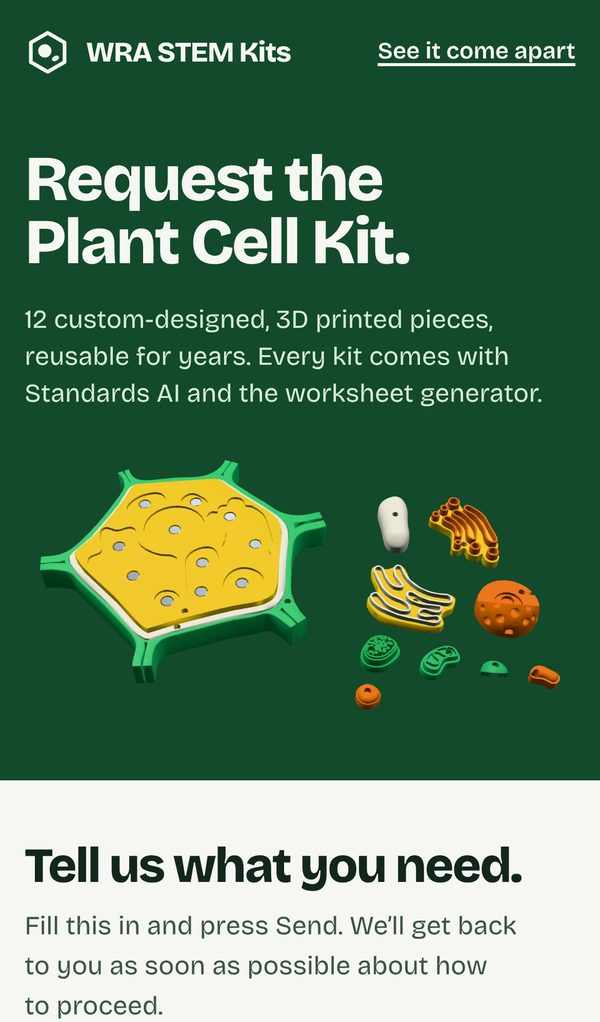
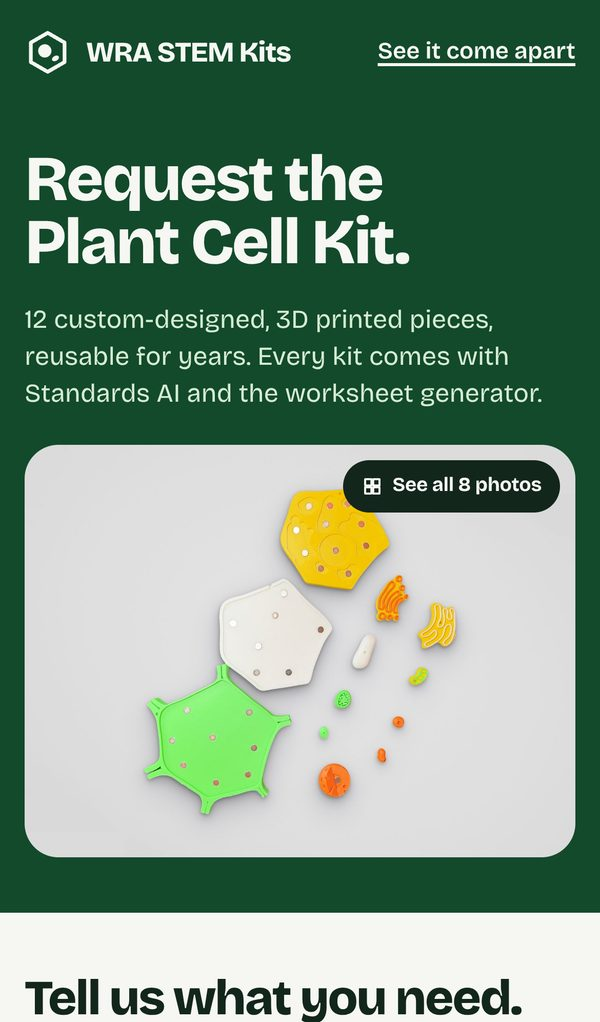
Real kit photos: rotated laid-out photo on the request sections, swipeable gallery
- Mark's 8 studio photos of the printed kit (the near-identical IMG_0226
  dropped in favour of IMG_0225), resized for the web with metadata
  removed: 1600 px for the gallery, 1000 px for the page, 320 px thumbs.
- The laid-out photo is rotated 25 degrees clockwise so the small pieces
  run downward; the grey studio backdrop is extended into the new corners
  (src/photos/rotate_photo.py).
- It replaces the 3D render in the home "Request a set." section and the
  request page hero, in a rounded frame with a "See all 8 photos" cue.
- assets/js/gallery.js: one shared, dependency-free viewer. Swipe, arrows,
  arrow keys, thumbnails, a counter; Esc, Close or the phone's Back button
  closes it without leaving the page (form answers stay); focus returns to
  the photo. Photos load only when the viewer opens; without dialog support
  the link just opens the photo.
- README: photos of the real kit and the gallery.

Claude-Session: https://claude.ai/code/session_01PDmAc8QfYGZ84gLE5ZVmvv

diff --git a/assets/js/gallery.js b/assets/js/gallery.js
@@ -1,0 +1,140 @@
+/* Kit photo gallery, used on the home page ("Request a set.") and the request page.
+   A link to the first photo becomes a full-screen viewer: swipe, use the arrows or arrow keys,
+   or tap a thumbnail. Esc, the close button, or the phone's Back button closes it.
+   Nothing loads until the viewer opens, and without dialog support the link simply opens the
+   photo. Written in plain older JavaScript so it also runs on old iPads. */
+(function () {
+  var BASE = '/assets/img/photos/';
+  var VER = '?v=20261115c';
+  var PHOTOS = [
+    { f: 'kit-laid-out', alt: 'Every piece of the plant cell kit laid out: the green cell wall, the white cell membrane, the yellow cytoplasm tray, and the organelles beside them.' },
+    { f: 'kit-assembled', alt: 'The assembled plant cell kit: each organelle seated in its slot in the yellow cytoplasm, inside the white membrane and green cell wall.' },
+    { f: 'kit-assembled-angle', alt: 'The assembled plant cell kit from a slightly different angle.' },
+    { f: 'kit-in-case-assembled', alt: 'The assembled cell resting in an open storage case.' },
+    { f: 'kit-in-case-front', alt: 'An open storage case seen from the front, with the cell wall and organelles packed inside.' },
+    { f: 'kit-in-case-1', alt: 'The kit packed in its open storage case, seen from the left.' },
+    { f: 'kit-in-case-2', alt: 'The kit packed in its open storage case, from a slightly different angle.' },
+    { f: 'kit-in-case-3', alt: 'The kit packed in its open storage case, seen from the right.' }
+  ];
+  var probe = document.createElement('dialog');
+  if (typeof probe.showModal !== 'function') return; // old browser: the link opens the photo
+
+  var CSS =
+    'html.g-lock{overflow:hidden}' +
+    '.g-dlg{position:fixed;top:0;left:0;right:0;bottom:0;width:100%;height:100%;max-width:none;max-height:none;margin:0;padding:0;border:0;background:var(--ink,#13261C);color:var(--stock,#F6F7F2);font-family:var(--sans,system-ui,sans-serif)}' +
+    '.g-dlg::backdrop{background:var(--ink,#13261C)}' +
+    '.g-dlg[open]{display:flex;flex-direction:column}' +
+    '.g-top{flex:none;display:flex;align-items:center;gap:12px;padding:12px clamp(12px,3vw,28px)}' +
+    '.g-title{font-weight:800;letter-spacing:-.02em;font-size:1.05rem}' +
+    '.g-count{font-weight:700;font-size:.9rem;opacity:.85;font-variant-numeric:tabular-nums}' +
+    '.g-btn{display:inline-flex;align-items:center;justify-content:center;gap:6px;min-height:44px;min-width:44px;padding:0 16px;border-radius:999px;border:2px solid var(--stock,#F6F7F2);background:transparent;color:var(--stock,#F6F7F2);font:700 .92rem/1 var(--sans,system-ui,sans-serif);cursor:pointer}' +
+    '.g-btn:hover{background:var(--stock,#F6F7F2);color:var(--ink,#13261C)}' +
+    '.g-btn:focus-visible,.g-thumb:focus-visible{outline:3px solid var(--sun,#F6C343);outline-offset:3px}' +
+    '.g-btn svg{width:18px;height:18px}' +
+    '.g-close{margin-left:auto}' +
+    '.g-stage{flex:1;min-height:0;position:relative}' +
+    '.g-track{position:absolute;top:0;left:0;right:0;bottom:0;display:flex;overflow-x:auto;overflow-y:hidden;scroll-snap-type:x mandatory;scrollbar-width:none;margin:0;padding:0;list-style:none;overscroll-behavior:contain}' +
+    '.g-track::-webkit-scrollbar{display:none}' +
+    '.g-track li{flex:0 0 100%;scroll-snap-align:center;display:flex;align-items:center;justify-content:center;padding:0 clamp(12px,7vw,96px)}' +
+    '.g-track img{max-width:100%;max-height:100%;width:auto;height:auto;border-radius:16px;background:#dcdcdc}' +
+    '.g-prev,.g-next{position:absolute;top:50%;transform:translateY(-50%);padding:0;width:52px;height:52px;background:var(--ink,#13261C)}' +
+    '.g-prev{left:clamp(8px,2vw,24px)}.g-next{right:clamp(8px,2vw,24px)}' +
+    '.g-prev[disabled],.g-next[disabled]{opacity:.3;cursor:default;pointer-events:none}' +
+    '.g-strip{flex:none;display:flex;gap:8px;overflow-x:auto;padding:12px clamp(12px,3vw,28px) calc(14px + env(safe-area-inset-bottom));scrollbar-width:thin;justify-content:safe center}' +
+    '.g-thumb{flex:none;padding:0;border:2px solid transparent;border-radius:10px;background:none;cursor:pointer;opacity:.6;transition:opacity .2s}' +
+    '.g-thumb img{display:block;width:84px;height:63px;border-radius:8px;object-fit:cover}' +
+    '.g-thumb:hover{opacity:1}' +
+    '.g-thumb[aria-current="true"]{border-color:var(--sun,#F6C343);opacity:1}' +
+    '@media (max-width:640px){.g-prev,.g-next{display:none}.g-track li{padding:0 10px}.g-thumb img{width:64px;height:48px}.g-title{display:none}}' +
+    '@media (prefers-reduced-motion:reduce){.g-track{scroll-behavior:auto}}';
+
+  var dlg, track, prevBtn, nextBtn, countEl, thumbs = [], current = 0, opener = null, pushed = false, built = false;
+  var reduce = window.matchMedia && matchMedia('(prefers-reduced-motion: reduce)').matches;
+  var ARROW = function (d) { return '<svg viewBox="0 0 24 24" aria-hidden="true"><path d="' + d + '" fill="none" stroke="currentColor" stroke-width="2.4" stroke-linecap="round" stroke-linejoin="round"/></svg>'; };
+
+  function build() {
+    var style = document.createElement('style'); style.textContent = CSS; document.head.appendChild(style);
+    dlg = document.createElement('dialog');
+    dlg.className = 'g-dlg';
+    dlg.setAttribute('aria-label', 'Photos of the plant cell kit');
+    var slides = '', strip = '';
+    for (var i = 0; i < PHOTOS.length; i++) {
+      slides += '<li><img alt="' + PHOTOS[i].alt + '" data-src="' + BASE + PHOTOS[i].f + '.jpg' + VER + '" width="1600" height="1200" decoding="async"></li>';
+      strip += '<button type="button" class="g-thumb" data-i="' + i + '" aria-label="Photo ' + (i + 1) + ' of ' + PHOTOS.length + '"><img alt="" src="' + BASE + PHOTOS[i].f + '-thumb.jpg' + VER + '" width="320" height="240"></button>';
+    }
+    dlg.innerHTML =
+      '<div class="g-top"><span class="g-title">The Plant Cell Kit</span><span class="g-count" aria-live="polite"></span>' +
+      '<button type="button" class="g-btn g-close">' + ARROW('M6 6l12 12M18 6L6 18') + 'Close</button></div>' +
+      '<div class="g-stage"><ul class="g-track">' + slides + '</ul>' +
+      '<button type="button" class="g-btn g-prev" aria-label="Previous photo">' + ARROW('M15 5l-7 7 7 7') + '</button>' +
+      '<button type="button" class="g-btn g-next" aria-label="Next photo">' + ARROW('M9 5l7 7-7 7') + '</button></div>' +
+      '<div class="g-strip">' + strip + '</div>';
+    document.body.appendChild(dlg);
+    track = dlg.querySelector('.g-track');
+    prevBtn = dlg.querySelector('.g-prev'); nextBtn = dlg.querySelector('.g-next');
+    countEl = dlg.querySelector('.g-count');
+    thumbs = dlg.querySelectorAll('.g-thumb');
+    dlg.querySelector('.g-close').addEventListener('click', function () { dlg.close(); });
+    prevBtn.addEventListener('click', function () { go(current - 1, true); });
+    nextBtn.addEventListener('click', function () { go(current + 1, true); });
+    for (var t = 0; t < thumbs.length; t++) thumbs[t].addEventListener('click', function () { go(+this.getAttribute('data-i'), true); });
+    var ticking = false;
+    track.addEventListener('scroll', function () {
+      if (ticking) return; ticking = true;
+      requestAnimationFrame(function () { ticking = false; mark(Math.round(track.scrollLeft / Math.max(1, track.clientWidth))); });
+    }, { passive: true });
+    dlg.addEventListener('keydown', function (e) {
+      if (e.key === 'ArrowRight') { e.preventDefault(); go(current + 1, true); }
+      else if (e.key === 'ArrowLeft') { e.preventDefault(); go(current - 1, true); }
+    });
+    dlg.addEventListener('close', function () {
+      document.documentElement.classList.remove('g-lock');
+      if (pushed) { pushed = false; history.back(); }
+      if (opener) { try { opener.focus({ preventScroll: true }); } catch (err) { opener.focus(); } }
+    });
+    window.addEventListener('popstate', function () { if (dlg.open) { pushed = false; dlg.close(); } });
+    window.addEventListener('resize', function () { if (dlg.open) go(current, false); });
+    built = true;
+  }
+
+  // load a photo and its neighbours only when they are about to be seen
+  function load(i) {
+    for (var k = i - 1; k <= i + 1; k++) {
+      if (k < 0 || k >= PHOTOS.length) continue;
+      var img = track.children[k].firstChild;
+      if (img.getAttribute('data-src')) { img.src = img.getAttribute('data-src'); img.removeAttribute('data-src'); }
+    }
+  }
+  function mark(i) {
+    i = Math.max(0, Math.min(PHOTOS.length - 1, i));
+    current = i; load(i);
+    countEl.textContent = (i + 1) + ' of ' + PHOTOS.length;
+    prevBtn.disabled = i === 0; nextBtn.disabled = i === PHOTOS.length - 1;
+    for (var t = 0; t < thumbs.length; t++) thumbs[t].setAttribute('aria-current', t === i ? 'true' : 'false');
+    var th = thumbs[i], strip = th.parentNode;
+    var left = th.offsetLeft - (strip.clientWidth - th.offsetWidth) / 2;
+    if (strip.scrollTo) strip.scrollTo({ left: left, behavior: reduce ? 'auto' : 'smooth' }); else strip.scrollLeft = left;
+  }
+  function go(i, smooth) {
+    i = Math.max(0, Math.min(PHOTOS.length - 1, i));
+    mark(i);
+    var left = i * track.clientWidth;
+    if (track.scrollTo) track.scrollTo({ left: left, behavior: smooth && !reduce ? 'smooth' : 'auto' }); else track.scrollLeft = left;
+  }
+  function open(i, trigger) {
+    if (!built) build();
+    opener = trigger;
+    document.documentElement.classList.add('g-lock');
+    dlg.showModal();
+    try { history.pushState({ wraGallery: true }, ''); pushed = true; } catch (err) { pushed = false; }
+    go(i, false);
+    dlg.querySelector('.g-close').focus();
+  }
+
+  document.addEventListener('click', function (e) {
+    var a = e.target && e.target.closest ? e.target.closest('[data-gallery]') : null;
+    if (!a || e.metaKey || e.ctrlKey || e.shiftKey || e.button > 0) return;
+    e.preventDefault();
+    open(+(a.getAttribute('data-index') || 0), a);
+  });
+})();

diff --git a/index.html b/index.html
@@ -213,9 +213,19 @@ p{margin:0;text-wrap:pretty}
 .buy h2{font-size:clamp(2.4rem,4.6vw,4.2rem)}
 .buy .lede{margin-top:18px;max-width:36ch;font-size:clamp(1.05rem,1.2vw + .5rem,1.3rem);color:var(--on-leaf-2);line-height:1.45}
 .buy-note{margin-top:18px;font-size:.92rem;font-weight:600;color:var(--on-leaf-2)}
-.buy-art{margin:0 calc(var(--gutter) * -1) 0 0}
-.buy-art img{width:100%;transform:translateX(4%) scale(1.06);transform-origin:left center}
-@media (max-width:960px){.buy-grid{grid-template-columns:1fr}.buy-art{margin:0}.buy-art img{transform:none}}
+.buy-art{margin:0}
+@media (max-width:960px){.buy-grid{grid-template-columns:1fr}}
+/* the kit photo: opens the photo gallery (assets/js/gallery.js) */
+.kit-photo{position:relative;display:block;border-radius:22px;overflow:hidden;background:#dcdcdc;color:inherit;text-decoration:none}
+.kit-photo img{display:block;width:100%;height:auto;transition:transform .6s var(--ease)}
+.kit-photo:hover img{transform:scale(1.025)}
+.kit-photo-cue{position:absolute;right:14px;top:14px;display:inline-flex;align-items:center;gap:8px;min-height:40px;padding:0 15px;border-radius:999px;background:var(--ink);color:var(--stock);font:700 .9rem/1 var(--sans);letter-spacing:-.01em}
+.kit-photo-cue svg{width:16px;height:16px}
+.kit-photo:hover .kit-photo-cue{background:var(--leaf-deep)}
+.kit-photo:focus-visible{outline:3px solid var(--sun);outline-offset:4px;border-radius:22px}
+@media (prefers-reduced-motion:reduce){.kit-photo img{transition:none}.kit-photo:hover img{transform:none}}
+@media (max-width:600px){.kit-photo-cue{right:10px;top:10px;min-height:34px;padding:0 12px;font-size:.8rem;gap:6px}.kit-photo-cue svg{width:14px;height:14px}}
+
 
 /* ---------- resources + viewer ---------- */
 .res{padding:clamp(72px,10vw,128px) 0 clamp(72px,10vw,120px);background:var(--stock)}
@@ -431,7 +441,10 @@ p{margin:0;text-wrap:pretty}
         <p class="buy-note">Tell us how many sets you need. We’ll get back to you as soon as possible.</p>
       </div>
       <figure class="buy-art">
-        <img src="assets/img/kit-laid-out.webp?v=20261115b" width="1447" height="739" alt="The whole kit laid out on a table: the green cell wall, white membrane and yellow cytoplasm tray with its empty slots, and every organelle lined up beside it, ready to be placed." loading="lazy" decoding="async">
+        <a class="kit-photo" href="assets/img/photos/kit-laid-out.jpg?v=20261115c" data-gallery data-index="0">
+          <img src="assets/img/photos/kit-laid-out-1000.jpg?v=20261115c" srcset="assets/img/photos/kit-laid-out-1000.jpg?v=20261115c 1000w, assets/img/photos/kit-laid-out.jpg?v=20261115c 1600w" sizes="(max-width:960px) 92vw, 680px" width="1600" height="1200" alt="Every piece of the plant cell kit laid out: the green cell wall, the white cell membrane, the yellow cytoplasm tray, and the organelles beside them." loading="lazy" decoding="async">
+          <span class="kit-photo-cue"><svg viewBox="0 0 24 24" aria-hidden="true"><path d="M4 4h7v7H4zM13 4h7v7h-7zM4 13h7v7H4zM13 13h7v7h-7z" fill="none" stroke="currentColor" stroke-width="2.2" stroke-linejoin="round"/></svg>See all 8 photos</span>
+        </a>
       </figure>
     </div>
   </section>
@@ -627,5 +640,6 @@ p{margin:0;text-wrap:pretty}
     }
   })();
 </script>
+<script src="assets/js/gallery.js?v=20261115c" defer></script>
 </body>
 </html>

diff --git a/purchase/index.html b/purchase/index.html
@@ -58,6 +58,17 @@ p{margin:0;text-wrap:pretty}
 .hero h1{font-size:clamp(2.6rem,5.6vw,5rem);max-width:10ch}
 .hero .lede{margin-top:18px;max-width:34ch;font-size:clamp(1.05rem,1.2vw + .5rem,1.3rem);color:var(--on-leaf-2);line-height:1.45}
 .hero figure{margin:0}
+/* the kit photo: opens the photo gallery (assets/js/gallery.js) */
+.kit-photo{position:relative;display:block;border-radius:22px;overflow:hidden;background:#dcdcdc;color:inherit;text-decoration:none}
+.kit-photo img{display:block;width:100%;height:auto;transition:transform .6s var(--ease)}
+.kit-photo:hover img{transform:scale(1.025)}
+.kit-photo-cue{position:absolute;right:14px;top:14px;display:inline-flex;align-items:center;gap:8px;min-height:40px;padding:0 15px;border-radius:999px;background:var(--ink);color:var(--stock);font:700 .9rem/1 var(--sans);letter-spacing:-.01em}
+.kit-photo-cue svg{width:16px;height:16px}
+.kit-photo:hover .kit-photo-cue{background:var(--leaf-deep)}
+.kit-photo:focus-visible{outline:3px solid var(--sun);outline-offset:4px;border-radius:22px}
+@media (prefers-reduced-motion:reduce){.kit-photo img{transition:none}.kit-photo:hover img{transform:none}}
+@media (max-width:600px){.kit-photo-cue{right:10px;top:10px;min-height:34px;padding:0 12px;font-size:.8rem;gap:6px}.kit-photo-cue svg{width:14px;height:14px}}
+
 @media (max-width:860px){.hero .wrap{grid-template-columns:1fr}}
 
 /* the form */
@@ -125,7 +136,10 @@ input[aria-invalid="true"],textarea[aria-invalid="true"]{border-color:var(--cora
         <p class="lede">12 custom-designed, 3D printed pieces, reusable for years. Every kit comes with Standards AI and the worksheet generator.</p>
       </div>
       <figure>
-        <img src="../assets/img/kit-laid-out.webp?v=20261115b" width="1447" height="739" alt="The whole kit laid out: the cell wall, membrane and cytoplasm tray with its empty slots, and every organelle lined up beside it." fetchpriority="high">
+        <a class="kit-photo" href="../assets/img/photos/kit-laid-out.jpg?v=20261115c" data-gallery data-index="0">
+          <img src="../assets/img/photos/kit-laid-out-1000.jpg?v=20261115c" srcset="../assets/img/photos/kit-laid-out-1000.jpg?v=20261115c 1000w, ../assets/img/photos/kit-laid-out.jpg?v=20261115c 1600w" sizes="(max-width:960px) 92vw, 680px" width="1600" height="1200" alt="Every piece of the plant cell kit laid out: the green cell wall, the white cell membrane, the yellow cytoplasm tray, and the organelles beside them." fetchpriority="high" decoding="async">
+          <span class="kit-photo-cue"><svg viewBox="0 0 24 24" aria-hidden="true"><path d="M4 4h7v7H4zM13 4h7v7h-7zM4 13h7v7H4zM13 13h7v7h-7z" fill="none" stroke="currentColor" stroke-width="2.2" stroke-linejoin="round"/></svg>See all 8 photos</span>
+        </a>
       </figure>
     </div>
   </section>
@@ -271,5 +285,6 @@ input[aria-invalid="true"],textarea[aria-invalid="true"]{border-color:var(--cora
   });
 })();
 </script>
+<script src="../assets/js/gallery.js?v=20261115c" defer></script>
 </body>
 </html>

diff --git a/src/photos/rotate_photo.py b/src/photos/rotate_photo.py
@@ -1,0 +1,47 @@
+"""Rotate the laid-out kit photo 25 degrees clockwise and extend the grey studio backdrop into the
+new corners (push-pull fill from the photo's own backdrop, blended well inside the photo's edge).
+usage: rotate_photo.py <in.jpg> <out.png> <check.jpg>"""
+import sys, numpy as np
+from PIL import Image, ImageFilter
+src, out, check = sys.argv[1:4]
+im = Image.open(src).convert('RGB'); W, H = im.size
+ANG = -25  # Pillow turns counter-clockwise for positive angles, so -25 is clockwise
+rot = im.rotate(ANG, resample=Image.BICUBIC, expand=True)
+valid = Image.new('L', im.size, 255).rotate(ANG, resample=Image.BILINEAR, expand=True)
+a = np.asarray(im).astype(np.float32); fmx, fmn = a.max(2), a.min(2)
+subj = Image.fromarray(((~(((fmx - fmn) < 18) & (fmx > 160))) * 255).astype(np.uint8)).filter(ImageFilter.MedianFilter(9))
+bb = subj.rotate(ANG, resample=Image.NEAREST, expand=True).getbbox()
+cx, cy = (bb[0] + bb[2]) / 2, (bb[1] + bb[3]) / 2; bw, bh = bb[2] - bb[0], bb[3] - bb[1]
+fh = max(bh * 1.26, bw * 1.26 * 3 / 4); fw = fh * 4 / 3
+x0, y0 = int(round(cx - fw / 2)), int(round(cy - fh / 2)); fw, fh = int(round(fw)), int(round(fh))
+def crop(img, mode):
+    c = Image.new(mode, (fw, fh), 0); c.paste(img.crop((x0, y0, x0 + fw, y0 + fh))); return c
+img = np.asarray(crop(rot, 'RGB')).astype(np.float64)
+v = crop(valid, 'L')
+known = (np.asarray(v.filter(ImageFilter.MinFilter(41))) > 250).astype(np.float64)  # 20 px inside the edge
+def down(x, w):
+    h2, w2 = (x.shape[0] + 1) // 2, (x.shape[1] + 1) // 2
+    xp = np.zeros((h2 * 2, w2 * 2, 3)); wp = np.zeros((h2 * 2, w2 * 2))
+    xp[:x.shape[0], :x.shape[1]] = x * w[..., None]; wp[:w.shape[0], :w.shape[1]] = w
+    xs = xp.reshape(h2, 2, w2, 2, 3).sum((1, 3)); ws = wp.reshape(h2, 2, w2, 2).sum((1, 3))
+    return xs / np.maximum(ws, 1e-6)[..., None], np.minimum(ws, 1.0)
+levels = [(img, known)]
+while min(levels[-1][0].shape[:2]) > 2:
+    levels.append(down(*levels[-1]))
+filled = levels[-1][0]
+for x, w in reversed(levels[:-1]):
+    u = np.asarray(Image.fromarray(np.clip(filled, 0, 255).astype(np.uint8)).resize((x.shape[1], x.shape[0]), Image.BILINEAR)).astype(np.float64)
+    filled = x * w[..., None] + u * (1 - w[..., None])
+fill_only = np.asarray(Image.fromarray(np.clip(filled, 0, 255).astype(np.uint8)).filter(ImageFilter.GaussianBlur(24))).astype(np.float64)
+# blend: photo weight reaches 0 about 60 px inside its edge, so no black edge pixels leak in
+edge = np.asarray(v.filter(ImageFilter.MinFilter(161)).filter(ImageFilter.GaussianBlur(26))).astype(np.float64)[..., None] / 255
+res = img * edge + fill_only * (1 - edge)
+rng = np.random.default_rng(7); res += rng.normal(0, 0.75, res.shape) * (1 - edge)
+res = np.clip(res, 0, 255).astype(np.uint8)
+Image.fromarray(res).save(out)
+chk = np.clip((res.astype(np.float32) - res.mean()) * 6 + 128, 0, 255).astype(np.uint8)
+small = (fw // 3, fh // 3)
+o = Image.new('RGB', (small[0] * 2 + 10, small[1]), 'white')
+o.paste(Image.fromarray(res).resize(small), (0, 0)); o.paste(Image.fromarray(chk).resize(small), (small[0] + 10, 0))
+o.save(check, quality=85)
+print('framed size', (fw, fh))

diff --git a/README.md b/README.md
@@ -36,6 +36,17 @@ This website introduces the kit and the tools that come with it. A teacher can e
 
 ## The kit
 
+<table>
+  <tr>
+    <td width="50%"><img src="assets/img/photos/kit-assembled-1000.jpg" alt="Photo of the assembled 3D printed plant cell kit"></td>
+    <td width="50%"><img src="assets/img/photos/kit-laid-out-1000.jpg" alt="Photo of every piece of the kit laid out"></td>
+  </tr>
+  <tr>
+    <td align="center"><sub>The printed kit, assembled</sub></td>
+    <td align="center"><sub>Every piece laid out</sub></td>
+  </tr>
+</table>
+
 | | |
 |---|---|
 | **12 pieces** | Cell wall, cell membrane, cytoplasm tray, nucleus, nucleolus, chloroplast, mitochondrion, Golgi apparatus, endoplasmic reticulum, central vacuole, peroxisome and amyloplast |
@@ -75,12 +86,15 @@ One click prints a new 3-page plant cell worksheet and its answer key.
 ![The worksheet generator: a toolbar with Download worksheet PDF, Answer key PDF and New worksheet above a printable worksheet](docs/screenshots/generator.jpg)
 
 ### Request kits
-A short form (number of sets, school, email). Each request is emailed straight to the kit maker, who replies to the teacher.
+A short form (number of sets, school, email). Each request is emailed straight to the kit maker, who replies to the teacher. A photo of the real kit opens a gallery of eight photos that visitors can swipe through.
 
 <table>
   <tr>
-    <td width="50%"><img src="docs/screenshots/request-section.jpg" alt="The home page's Request a set section with the whole kit laid out"></td>
-    <td width="50%"><img src="docs/screenshots/purchase.jpg" alt="The Request the Plant Cell Kit page and its form"></td>
+    <td width="50%"><img src="docs/screenshots/request-section.jpg" alt="The home page's Request a set section with a photo of every piece laid out"></td>
+    <td width="50%"><img src="docs/screenshots/purchase.jpg" alt="The Request the Plant Cell Kit page with the kit photo"></td>
+  </tr>
+  <tr>
+    <td colspan="2"><img src="docs/screenshots/gallery.jpg" alt="The photo gallery: one large photo of the kit with a row of thumbnails below"></td>
   </tr>
 </table>
 
@@ -149,7 +163,7 @@ flowchart LR
 | [`cell-kit-generator/`](cell-kit-generator) | Worksheet and answer key generator |
 | [`purchase/`](purchase) | Request kits form |
 | [`worker/`](worker) | Cloudflare Worker for Standards AI answers and purchase requests ([setup notes](worker/README.md)) |
-| [`src/`](src) | Source for the 3D viewer, the model pipeline and the NGSS pipeline ([build notes](src/README.md)) |
+| [`src/`](src) | Source for the 3D viewer, the model pipeline, the NGSS pipeline and the photo rotation script ([build notes](src/README.md)) |
 | [`assets/`](assets) | Fonts, images, the 3D model and the built viewer. Logo files are in [`assets/brand/`](assets/brand) |
 | [`DESIGN.md`](DESIGN.md) | The design system |
 | `9113d54f23e68ee25a1596c5112c4986.txt` | Public IndexNow verification file, so search engines accept page updates from wrastem.com (not a secret) |
